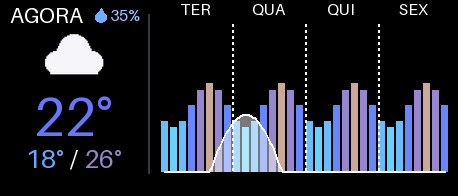
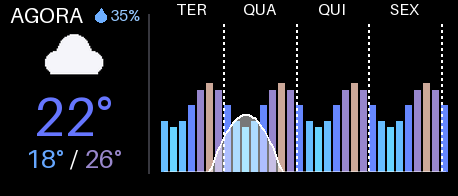
feat(weather): draw the rain curve edge only where it rains

diff --git a/server/deck_manager.py b/server/deck_manager.py
@@ -663,7 +663,7 @@ class DeckManager:
         return img
 
     def _draw_rain_curve(self, img, hourly: list, x0: float, slot: float, top: int, bottom: int):
-        """Draws the rain as a smooth translucent white area (with a solid edge) over the bars."""
+        """Draws the rain as a smooth translucent white area (with a solid edge only where it rains) over the bars."""
         if not any(h.get("rain", 0) > 0 for h in hourly):
             return
         rain_h = bottom - top
@@ -686,7 +686,10 @@ class DeckManager:
         overlay = Image.new("RGBA", img.size, (0, 0, 0, 0))
         odraw = ImageDraw.Draw(overlay)
         odraw.polygon(curve + [(curve[-1][0], bottom), (curve[0][0], bottom)], fill=(255, 255, 255, 120))
-        odraw.line(curve, fill=(255, 255, 255, 255), width=2)
+        # Edge only where there is rain: skip the segments lying on the 0 mm baseline
+        for a, b in zip(curve, curve[1:]):
+            if a[1] < bottom - 0.5 or b[1] < bottom - 0.5:
+                odraw.line([a, b], fill=(255, 255, 255, 255), width=2)
         img.paste(Image.alpha_composite(img.convert("RGBA"), overlay).convert("RGB"))
 
     def update_weather_graph(self, current: dict, today: dict, hourly: list):
